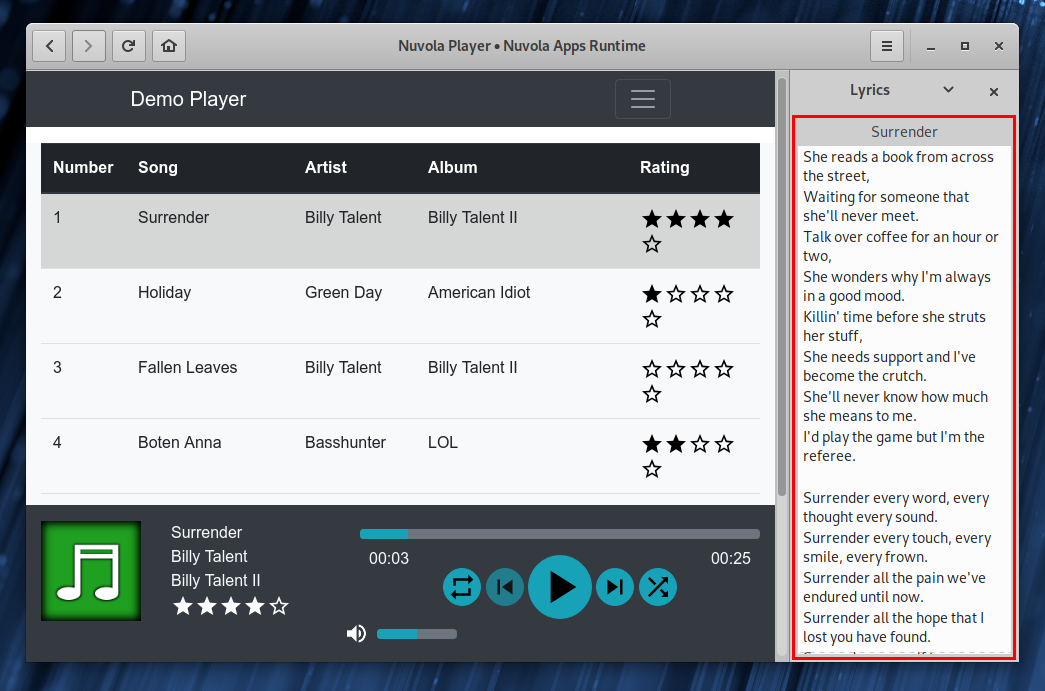
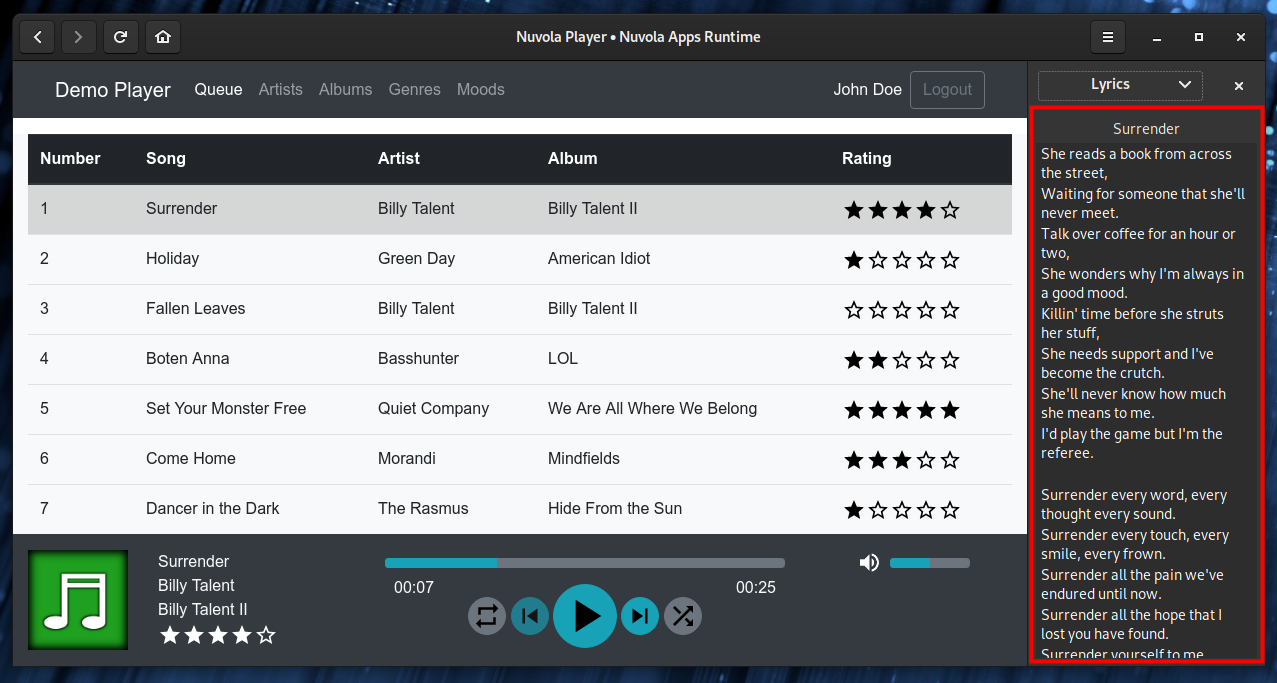
Add info about auto opening lyrics sidebar
Issue: tiliado/nuvolaruntime#205

diff --git a/pages/4/lyrics.md b/pages/4/lyrics.md
@@ -2,19 +2,41 @@ Title: Lyrics Fetching
 
 {$ 4/features/lyrics.md $}
 
-To enable *Lyrics fetching*, open Preferences dialog from the Menu button and
-toggle *Lyrics fetching* option on.
 
- Gallery 3cols
-+[Open Preferences dialog.](:images/4/features/open_preferences.png|330)
-+[Toggle Lyrics fetching option on.](:images/4/features/choose_lyrics.png|330)
+Enable lyrics fetching
+======================
+
+To enable Lyrics fetching, open *Preferences* dialog from the *Menu* button and toggle *Lyrics* option on.
+
+ Gallery 2cols
++[Open Preferences dialog.](:images/4/features/open_preferences_dark.png|330)
++[Toggle Lyrics fetching option on.](:images/4/features/enable_lyrics.png|330)
+
+Show lyrics
+===========
 
 Lyrics is shown in **the sidebar**.
 
-1. Toggle Sidebar on from the Menu button.
-2. Switch to Lyrics panel.
+1. Toggle *Sidebar* on from the *Menu* button.
+2. Switch to *Lyrics* page.
 
  Gallery 3cols
-+[Toggle Sidebar on from the Menu button.](:images/4/features/open_sidebar.png|330)
++[Toggle Sidebar on from the Menu button.](:images/4/features/open_sidebar_dark.png|330)
 +[Switch to Lyrics panel.](:images/4/features/switch_to_lyrics.png|330)
 +[Lyrics sidebar.](:images/4/features/lyrics_sidebar.png|330)
+
+
+Adjust lyrics settings
+======================
+
+To adjust Lyrics fetching settings, open *Preferences* dialog from the *Menu* button and click the gear button.
+
+ Gallery 3cols
++[Open Preferences dialog.](:images/4/features/open_preferences_dark.png|330)
++[Choose Lyrics.](:images/4/features/choose_lyrics.png|330)
++[Tweak Lyrics to your liking.](:images/4/features/lyrics_settings.png|330)
+
+Automatically open/close lyrics sidebar depending on whether the lyrics of the current song is found.
+:   If there is lyrics for the current song, the sidebar is opened and switched to the lyrics page of the sidebar.
+    If there is no lyrics for the current song and the lyrics page of the sidebar is displayed, the sidebar is closed.
+    However, if a different page is shown in the sidebar, the sidebar in not closed.
